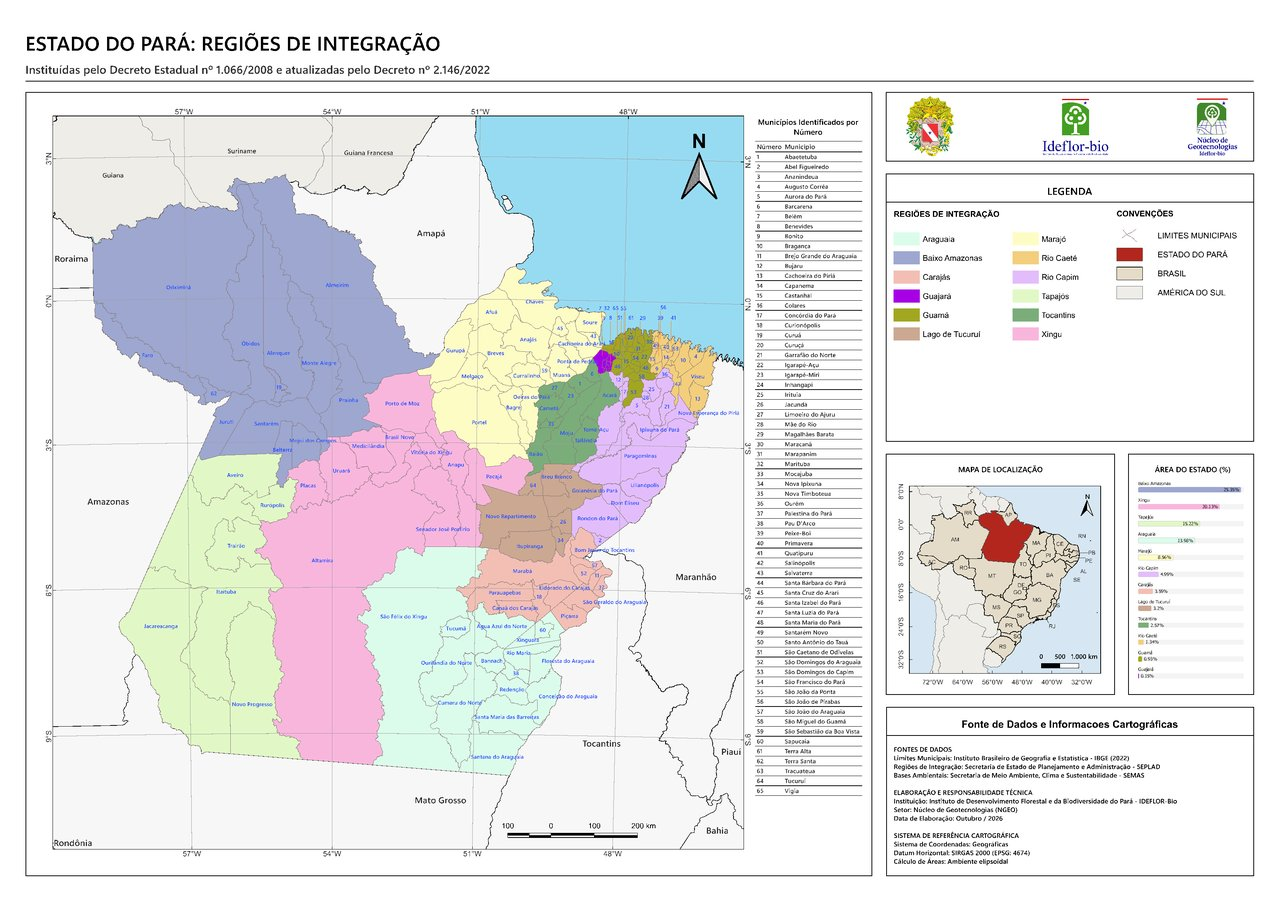
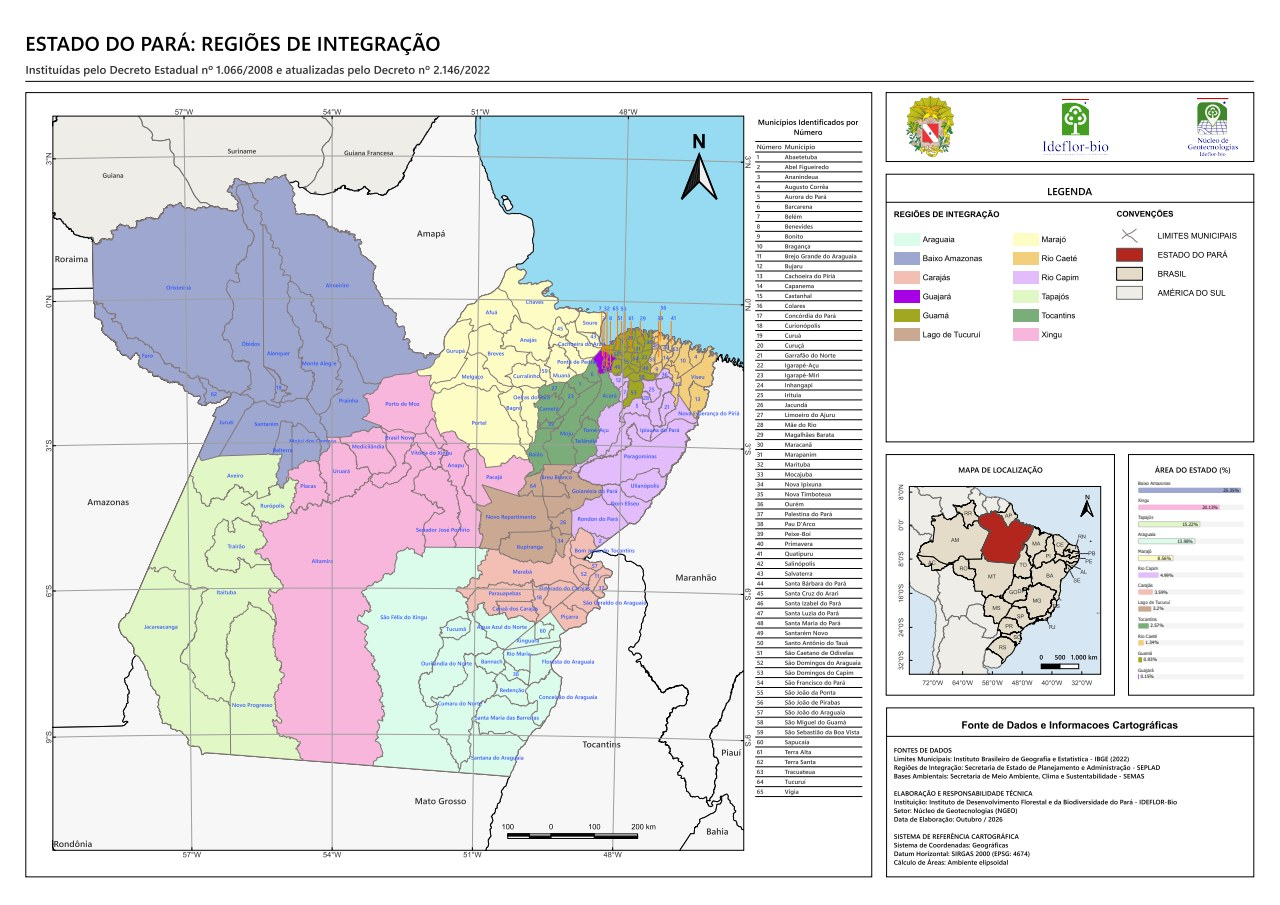
fix: atualiza mapa de regioes de integracao e thumbnail

diff --git a/assets/js/data.js b/assets/js/data.js
@@ -314,8 +314,8 @@ const MAPS_DATABASE = [
         "label": "Documento PDF Vetorial",
         "filename": "estado-do-para-regioes-de-integracao.pdf",
         "url": "assets/downloads/estado-do-para-regioes-de-integracao.pdf",
-        "size": "7.5 MB",
-        "bytes": 7875932,
+        "size": "14.6 MB",
+        "bytes": 15305318,
         "extension": "PDF"
       }
     ]
